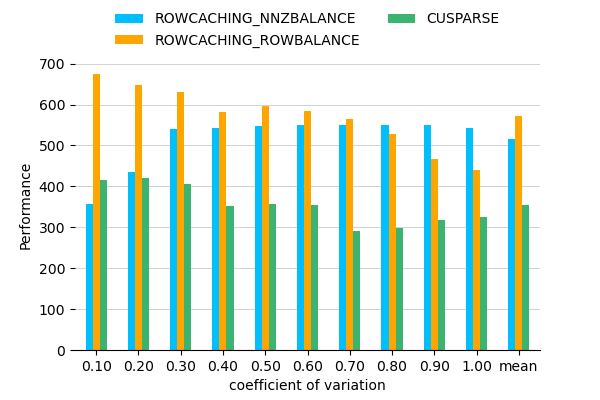
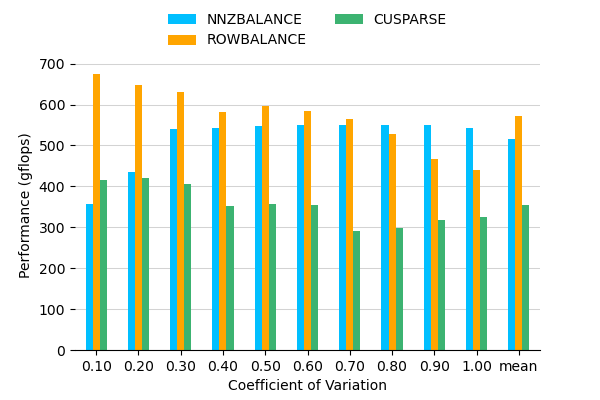
finish the PPT

Changed region(s): [[0.18, 0.03, 0.84, 0.12], [0.39, 0.93, 0.66, 0.99], [0.03, 0.33, 0.06, 0.69]]

diff --git a/example/ge-spmm/data_handler.py b/example/ge-spmm/data_handler.py
@@ -42,8 +42,10 @@ class BalanceHandler:
     output_path = f"../benchmark/output/balance/sp{sparsity:.2f}/throughput.png"
     df = pd.read_csv(input_path, index_col=0)
     df.columns = df.columns.str.replace("std_", "")
+    new_idx = ["NNZBALANCE", "ROWBALANCE", "CUSPARSE"]
+    df.index = new_idx
     df = df.transpose()
-    draw_csv_bar(df, output_path, ylabel="Performance", xlabel="coefficient of variation",
+    draw_csv_bar(df, output_path, ylabel="Performance (gflops)", xlabel="Coefficient of Variation",
       margin=(0.85, 0.125, 0.125, 0.9))
 
 
@@ -83,8 +85,10 @@ class ReduceHandler:
     input_path = f"../benchmark/output/reduce/sp{sparsity:.2f}/throughput.csv"
     output_path = f"../benchmark/output/reduce/sp{sparsity:.2f}/throughput.png"
     df = pd.read_csv(input_path, index_col=0)
+    new_idx = ["SEQREDUCE", "PARREDUCE", "CUSPARSE"]
+    df.index = new_idx
     df = df.transpose()
-    draw_csv_bar(df, output_path, ylabel="Performance", xlabel="Workload", rot=30,
+    draw_csv_bar(df, output_path, ylabel="Performance (gflops)", xlabel="Workload", rot=30,
       margin=(0.85, 0.125, 0.125, 0.9))
 
 
@@ -121,8 +125,10 @@ class TransposeHandler:
     input_path = f"../benchmark/output/transpose/p2p-Gnutella31/throughput.csv"
     output_path = f"../benchmark/output/transpose/p2p-Gnutella31/throughput.png"
     df = pd.read_csv(input_path, index_col=0)
+    new_idx = ["Column-Major", "Row-Major", "CUSPARSE"]
+    df.index = new_idx
     df = df.transpose()
-    draw_csv_bar(df, output_path, ylabel="Performance", xlabel="Workload", rot=30,
+    draw_csv_bar(df, output_path, ylabel="Performance (gflops)", xlabel="Workload", rot=30,
       margin=(0.85, 0.125, 0.125, 0.9))
 
 
